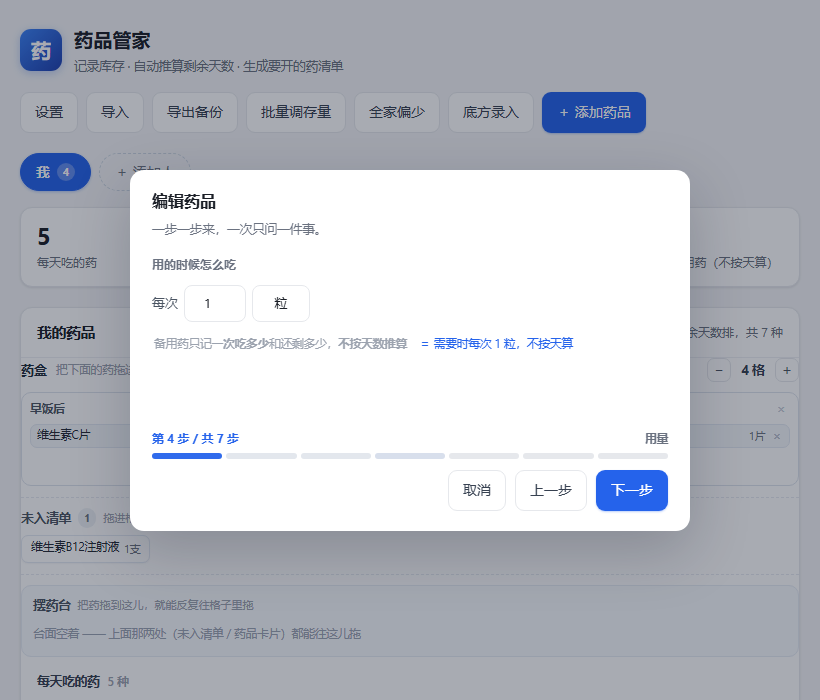
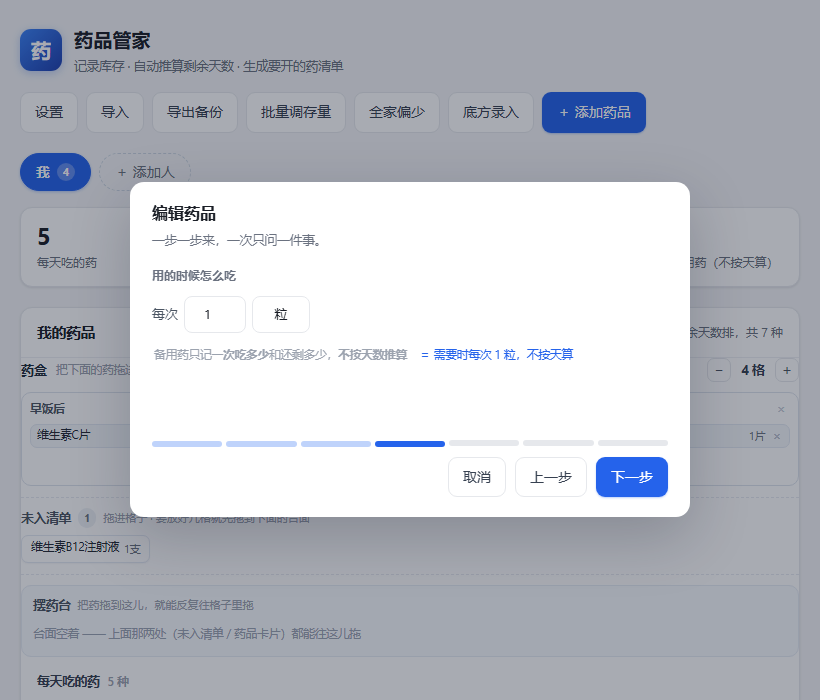
进度栏去掉「第 3 步 / 共 8 步」那行字，只留分段图形
用户 2026-10-28：「你把弹窗里这个 第一步/共八步这个提示给去了 就保持图形就行」。

- 删掉 .wizline 那行字（w.line / w.no / w.nm 一并删），wizbar 里只剩 .wizdots。
  亮到第几段就是在第几步，本来就是一眼的事，那行字还白占弹窗一整行高度。
- 每段仍然带 title（写着这步叫什么），鼠标停一下能看到；手机上不占地方。
- .wizdots 的 padding 5px 是原来跟上面那行字隔开用的，字没了就去掉。
- 只有一步时（校准余量）照旧不画条。
- 自测：test_wiz 66 项（新增「进度栏只有图形、没有那行字」；原来那几条
  「第 N 步 / 共 M 步」的断言改成读图形：几段 + 亮在第几段）。
  十套合计 1058 全绿。docs/ 重拍（含进度条的那 6 张），APK 重打。

Changed region(s): [[0.1524, 0.6, 0.8537, 0.78], [0.1524, 0.24, 0.8537, 0.54]]

diff --git a/index.html b/index.html
@@ -462,13 +462,11 @@ input.wbad{border-color:#fca5a5;background:#fffafa}
 .wizbtns{display:flex;justify-content:flex-end;gap:9px}
 .wizbtns .btn[data-wiz=prev]{visibility:hidden}
 .wizbtns .btn[data-wiz=prev].can{visibility:visible}
-.wizline{display:flex;align-items:baseline;gap:7px;font-size:11.5px;color:var(--faint)}
-.wizline b{font-size:12px;font-weight:680;color:var(--brand)}
-.wizline .wizname{margin-left:auto;font-weight:620;color:var(--muted)}
-.wizline[hidden]{display:none}
+/* 进度栏只有图形，不写「第 3 步 / 共 8 步」——数是哪一步这件事，一段亮着的方块
+   比一句话更快看懂，还省掉弹窗里的一整行高度。 */
 /* 进度条本身就是「点得动」的：一格一段，点哪段跳哪步 ——
    编辑一味老药只想改备注时，不用把前面六步一步步点过去。 */
-.wizdots{display:flex;gap:4px;padding:5px 0 0;cursor:default}
+.wizdots{display:flex;gap:4px;padding:0;cursor:default}
 .wizdots i{flex:1;height:6px;border-radius:99px;background:var(--line);
   transition:background .2s;cursor:pointer}
 .wizdots i.done{background:#bfd3fb}
@@ -2815,16 +2813,8 @@ function wizInit(formId){
   };
   if(!w.all.length || !w.bar || !w.next || !w.prev) return null;
 
-  w.line = document.createElement('div');
-  w.line.className = 'wizline';
-  w.no = document.createElement('b');
-  w.nm = document.createElement('span');
-  w.nm.className = 'wizname';
-  w.line.appendChild(w.no);
-  w.line.appendChild(w.nm);
   w.dots = document.createElement('div');
   w.dots.className = 'wizdots';
-  w.bar.appendChild(w.line);
   w.bar.appendChild(w.dots);
 
   w.prev.addEventListener('click', function(){ wizGo(w, w.i - 1); });
@@ -2865,10 +2855,7 @@ function wizRender(w){
 
   w.all.forEach(function(s){ s.classList.toggle('on', s === cur); });
 
-  w.no.textContent = (n > 1) ? ('第 ' + (w.i + 1) + ' 步 / 共 ' + n + ' 步') : '就一步';
-  w.nm.textContent = cur.getAttribute('data-name') || '';
-  w.line.hidden = (n < 2);
-  w.dots.hidden = (n < 2);
+  w.dots.hidden = (n < 2);   // 只有一步时不画条：一整段全亮，什么也没说
   // 第一步不显示「上一步」，但**留着位置**（visibility 而不是 hidden）：
   // 否则底下按钮会左右挪一下，连点两下很容易点空。
   w.prev.classList.toggle('can', w.i > 0);

diff --git a/_check/test_wiz.py b/_check/test_wiz.py
@@ -61,9 +61,15 @@ PROBE = r"""
     return s ? (s.getAttribute('data-wstep') || '') : '(没有/多步同时露)';
   }
   function nOn(form){ return qa('#' + form + ' .wstep.on').length; }
-  // 进度栏里「第 N 步」和右边的短名字是两个元素，textContent 拼起来中间没有空白 —— 统一去空再比
-  function bar(form){ return txt(q('#' + form + ' .wizline')).replace(/\s+/g, ''); }
   function dots(form){ return qa('#' + form + ' .wizdots i'); }
+  // 2026-10-28 用户要求进度栏只留图形、去掉「第 N 步 / 共 M 步」那行字，
+  // 所以这里改成读图形本身：「一共几段 : 亮在第几段」。
+  function nowAt(form){
+    var d = dots(form);
+    for(var i = 0; i < d.length; i++) if(d[i].className === 'now') return i + 1;
+    return 0;
+  }
+  function bar(form){ return dots(form).length + ':' + nowAt(form); }
   function nextB(form){ return q('#' + form + ' [data-wiz=next]'); }
   function prevB(form){ return q('#' + form + ' [data-wiz=prev]'); }
   function errTxt(form){
@@ -88,7 +94,10 @@ PROBE = r"""
   openEditor(null);
   ck('打开「添加药品」→ 同时只露出一步', nOn('formMed') === 1, nOn('formMed'));
   ck('第一步问的是药名（不是一上来就让人填七八格）', stepOf('formMed') === 'name', stepOf('formMed'));
-  ck('进度栏写「第 1 步 / 共 8 步」', bar('formMed') === '第1步/共8步药名', bar('formMed'));
+  ck('★ 进度栏只有图形，没有「第 N 步 / 共 M 步」那行字',
+     txt(q('#formMed .wizbar')) === '' && !q('#formMed .wizline'),
+     '"' + txt(q('#formMed .wizbar')) + '"' + (q('#formMed .wizline') ? ' / 还有 wizline' : ''));
+  ck('图形是 8 段、亮在第 1 段', bar('formMed') === '8:1', bar('formMed'));
   ck('进度条分 8 段，第一段是当前段', dots('formMed').length === 8
      && dots('formMed')[0].className === 'now', dots('formMed').length + ' / ' + (dots('formMed')[0] || {}).className);
   ck('第一步不显示「上一步」（但位置留着，按钮不乱挪）',
@@ -113,7 +122,7 @@ PROBE = r"""
   f.name.value = '引导片';
   tapNext('formMed');
   ck('填上药名 → 走到第二步「规格」', stepOf('formMed') === 'spec', stepOf('formMed'));
-  ck('第二步进度栏跟着变', bar('formMed') === '第2步/共8步规格', bar('formMed'));
+  ck('走到第二步，亮的那段跟着挪到第 2 段', bar('formMed') === '8:2', bar('formMed'));
   ck('红字跟着这一步清掉了', errTxt('formMed') === '(没有红字)', errTxt('formMed'));
 
   tapNext('formMed');
@@ -158,7 +167,9 @@ PROBE = r"""
   tapNext('formMed');
   ck('走到最后一步「备注」', stepOf('formMed') === 'note', stepOf('formMed'));
   ck('★ 到最后一步，「下一步」才变成「保存」', txt(nextB('formMed')) === '保存', txt(nextB('formMed')));
-  ck('最后一步进度栏是 8/8', bar('formMed') === '第8步/共8步备注', bar('formMed'));
+  ck('最后一步亮的是第 8 段（前面 7 段都算过去了）',
+     bar('formMed') === '8:8' && dots('formMed').slice(0, 7).every(function(d){ return d.className === 'done'; }),
+     bar('formMed'));
 
   var saved = null;
   nextB('formMed').click();                 // 点「保存」
@@ -179,14 +190,14 @@ PROBE = r"""
   openEditor(null);
   f.kind.value = 'prn';
   syncKindUI();
-  ck('★ 选「备用药」→ 总步数从 8 变 7', /共7步/.test(bar('formMed')), bar('formMed'));
+  ck('★ 选「备用药」→ 进度条从 8 段变 7 段', dots('formMed').length === 7, bar('formMed'));
   ck('★ 备用药没有「开药限制」这一步（不是灰着让人点）',
      WIZ.formMed.all.filter(function(s){ return s.getAttribute('data-wstep') === 'limit'; }).length === 1
      && wizList(WIZ.formMed).every(function(s){ return s.getAttribute('data-wstep') !== 'limit'; }),
      wizList(WIZ.formMed).map(function(s){ return s.getAttribute('data-wstep'); }).join(','));
   f.kind.value = 'daily';
   syncKindUI();
-  ck('切回「每天吃」→ 步数也回到 8', /共8步/.test(bar('formMed')), bar('formMed'));
+  ck('切回「每天吃」→ 段数也回到 8', dots('formMed').length === 8, bar('formMed'));
   q('#dlgMed').close();
 
   /* ================= 7. 每次打开都从第一步开始 ================= */
@@ -209,7 +220,7 @@ PROBE = r"""
 
   restockMed(rest.id);
   await null;
-  ck('「又买了药」是两步：先问数量', stepOf('formNum') === 'val' && /共2步/.test(bar('formNum')),
+  ck('「又买了药」是两步：先问数量', stepOf('formNum') === 'val' && bar('formNum') === '2:1',
      stepOf('formNum') + ' / ' + bar('formNum'));
   ck('弹窗里只有数量那一格露着（自费/医保还没问）', visible(q('#numVal')) && !visible(q('#numIns')),
      visible(q('#numVal')) + ' / ' + visible(q('#numIns')));
@@ -237,9 +248,9 @@ PROBE = r"""
   var cal = byName('补货引导片');
   calibMed(cal.id);
   await null;
-  ck('「校准余量」只有一步 → 进度栏不出现（一格的表不配进度条）',
-     q('#formNum .wizline').hidden === true && q('#formNum .wizdots').hidden === true,
-     String(q('#formNum .wizline').hidden));
+  ck('「校准余量」只有一步 → 进度条不出现（一格的表不配进度条）',
+     q('#formNum .wizdots').hidden === true
+       && txt(q('#formNum .wizbar')) === '', String(q('#formNum .wizdots').hidden));
   ck('只有一步时按钮直接就是那件事（校准余量 → 「校准」），不写「下一步」',
      txt(nextB('formNum')) === '校准', txt(nextB('formNum')));
   q('#numVal').value = '9';
@@ -250,7 +261,7 @@ PROBE = r"""
 
   /* ================= 10. 设置也是引导式 ================= */
   openSettings();
-  ck('设置打开是第 1 步 / 共 5 步', bar('formSet') === '第1步/共5步偏少线', bar('formSet'));
+  ck('设置打开：5 段、亮在第 1 段', bar('formSet') === '5:1', bar('formSet'));
   var names = [];
   for(var k = 0; k < 5; k++){
     names.push((onStep('formSet') || { getAttribute: function(){ return '?'; } }).getAttribute('data-name'));

diff --git a/README.md b/README.md
@@ -389,7 +389,8 @@
 一口气全摆在一屏里，人一看就头大，还容易漏填（漏了会在保存时被一次性打回，更烦）。
 
 所以**凡是"要填好几项"的表，都改成了引导式**：一次只问一件事，填完点「下一步」蹦出下一个，
-底下一条进度栏告诉你走到哪儿了。
+底下一条进度栏 —— 只有分段图形，不写「第 1 步 / 共 8 步」这种字：亮到第几段就是在第几步，
+一眼的事，不必再读一句话。
 
 ![添加药品：第 1 步只问药名](docs/screenshot-wiz1.png)
 
@@ -834,7 +835,7 @@ android/AndroidManifest.xml  清单：连 INTERNET 权限都没有
 android/src/com/xiaotuji/drugkeeper/MainActivity.java  WebView + 返回键 + 剪贴板 + 写文件
 android/make_icon.py     画 App 图标（PIL 生成，不是手放的图）
 _check/test_app.py        Android 壳补丁的自检 —— 24 条（假造一个 window.AndroidApp，把「导出落盘 / 复制进剪贴板 / 返回键先关弹窗」这三条只有装了 App 才走的路真跑一遍；反面再验「没有 AndroidApp 时补丁整段不生效」）
-_check/test_wiz.py        引导式填写的自检 —— 65 条（三张表各自几步、一打开只露一步、进度栏文案与段数、**点哪段跳哪段**、这一格没填对就不让过且是就地红字不是弹窗、**回车 = 下一步而不是提交整张表**、备用药跳过「开药限制」、只有一格时进度栏不出现、走完 8 步存下来的每个字段、以及"字段一个没少 / name 一个没改"）
+_check/test_wiz.py        引导式填写的自检 —— 66 条（三张表各自几步、一打开只露一步、进度栏只有图形与段数、**点哪段跳哪段**、这一格没填对就不让过且是就地红字不是弹窗、**回车 = 下一步而不是提交整张表**、备用药跳过「开药限制」、只有一格时进度栏不出现、走完 8 步存下来的每个字段、以及"字段一个没少 / name 一个没改"）
 _check/shot.py            重新生成 docs/ 里的截图（含 390×844 的手机版三张）
 docs/                     README 用的截图（每张都在上面被引用；没有没人看的图）
 LICENSE                   MIT，署名「人间小土鸡」
